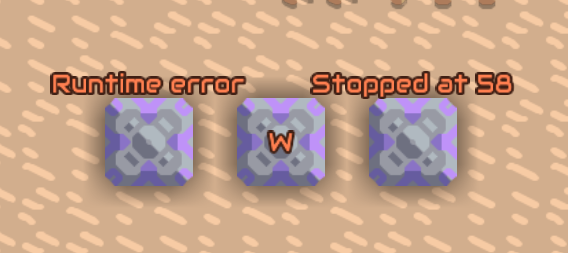
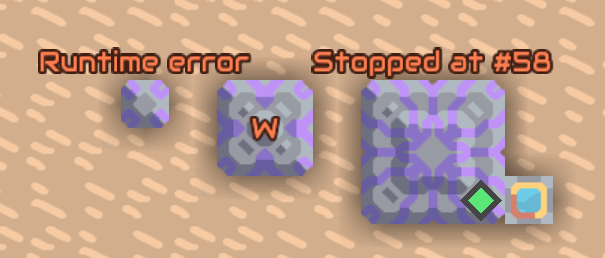
Log instruction

diff --git a/src/cardillan/mlogassertions/logic/LogicStatements.java b/src/cardillan/mlogassertions/logic/LogicStatements.java
@@ -4,14 +4,12 @@ import arc.func.Cons;
 import arc.func.Func;
 import arc.func.Prov;
 import arc.scene.ui.layout.Table;
+import arc.util.Log;
 import mindustry.gen.LogicIO;
-import mindustry.logic.LAssembler;
-import mindustry.logic.LCanvas;
-import mindustry.logic.LCategory;
-import mindustry.logic.LExecutor;
-import mindustry.logic.LStatement;
-import mindustry.logic.LVar;
+import mindustry.logic.*;
 import mindustry.ui.Styles;
+
+import java.util.Arrays;
 
 public class LogicStatements {
     private static final LogicStatementWriter writer = new LogicStatementWriter();
@@ -22,6 +20,7 @@ public class LogicStatements {
         register(AssertFlushStatement::new, AssertFlushStatement.opcode, AssertFlushStatement::read);
         register(AssertPrintsStatement::new, AssertPrintsStatement.opcode, AssertPrintsStatement::read);
         register(ErrorStatement::new, ErrorStatement.opcode, ErrorStatement::read);
+        register(LogStatement::new, LogStatement.opcode, LogStatement::read);
     }
 
     private static void register(Prov<LStatement> prov, String opcode, Func<String[], LStatement> parser) {
@@ -39,6 +38,11 @@ public class LogicStatements {
         @Override
         public String name() {
             return name;
+        }
+
+        @Override
+        public LCategory category() {
+            return AssertLogic.assertsCategory;
         }
 
         protected void stretchRow(Table table){
@@ -65,11 +69,6 @@ public class LogicStatements {
 
         public AssertBoundsStatement() {
             super("Assert Bounds");
-        }
-
-        @Override
-        public LCategory category() {
-            return AssertLogic.assertsCategory;
         }
 
         @Override
@@ -181,11 +180,6 @@ public class LogicStatements {
         }
 
         @Override
-        public LCategory category() {
-            return AssertLogic.assertsCategory;
-        }
-
-        @Override
         public void build(Table table) {
             table.defaults().left();
 
@@ -234,11 +228,6 @@ public class LogicStatements {
         }
 
         @Override
-        public LCategory category() {
-            return AssertLogic.assertsCategory;
-        }
-
-        @Override
         public void build(Table table) {
             table.add(" position ").self(this::param);
             field(table, position, v -> position = v);
@@ -273,11 +262,6 @@ public class LogicStatements {
 
         public AssertPrintsStatement() {
             super("Assert Prints");
-        }
-
-        @Override
-        public LCategory category() {
-            return AssertLogic.assertsCategory;
         }
 
         @Override
@@ -319,26 +303,41 @@ public class LogicStatements {
         }
     }
 
-    private static class ErrorStatement extends AssertStatement {
-        public static final String opcode = "error";
+    private abstract static class MessageStatement extends AssertStatement {
+        private final String opcode;
+        private final boolean hasLevel;
+        public Log.LogLevel level = Log.LogLevel.info;
         public String[] params = new String[10];
 
-        public ErrorStatement() {
-            super("Error");
-            params[0] = "\"Runtime error at #[[1]\"";
+        public MessageStatement(String opcode, String name, String message) {
+            super(name);
+            this.opcode = opcode;
+            this.hasLevel = opcode.equals("log");
+            params[0] = "\"" + message + " at #[[1]\"";
             params[1] = "@counter";
             for (int i = 2; i < params.length; i++) params[i] = "null";
         }
 
         @Override
-        public LCategory category() {
-            return AssertLogic.assertsCategory;
+        public void build(Table table){
+            rebuild(table);
         }
 
-        @Override
-        public void build(Table table) {
+        void rebuild(Table table){
+            table.clearChildren();
+
             table.defaults().left();
             Table t1 = table.table().growX().left().get();
+            if (hasLevel) {
+                t1.button(b -> {
+                    b.label(() -> level.name());
+                    b.clicked(() -> showSelect(b, levels, level, o -> {
+                        level = o;
+                        rebuild(table);
+                    }, 1, cell -> cell.width(80)));
+                }, Styles.logict, () -> {
+                }).size(80f, 40f).left().pad(4f).color(table.color);
+            }
             t1.setColor(category().color);
             t1.add(" message ").self(this::param).left();
             message(t1, params[0], str -> params[0] = str);
@@ -359,27 +358,66 @@ public class LogicStatements {
         }
 
         @Override
+        public void write(StringBuilder builder) {
+            writer.start(builder);
+            writer.write(opcode);
+            if (hasLevel) writer.write(level.name());
+            for (String param : params) writer.write(param);
+            writer.end();
+        }
+
+        protected LStatement readTokens(String[] tokens) {
+            int i = 1;
+            if (hasLevel && tokens.length > i) level = Log.LogLevel.valueOf(tokens[i++]);
+            for (int j = 0; j < 10; j++) {
+                if (tokens.length > i) params[j] = tokens[i++];
+            }
+            return this;
+        }
+    }
+
+    private static class ErrorStatement extends MessageStatement {
+        public static final String opcode = "error";
+
+        public ErrorStatement() {
+            super(opcode, "Error", "Runtime error");
+        }
+
+        @Override
         public LExecutor.LInstruction build(LAssembler builder) {
             LVar[] vars = new LVar[10];
             for (int i = 0; i < params.length; i++) vars[i] = builder.var(params[i]);
             return new LogicInstructions.ErrorI(vars);
         }
 
+        public static LStatement read(String[] tokens) {
+            return new ErrorStatement().readTokens(tokens);
+        }
+    }
+
+    private static final Log.LogLevel[] levels = {
+            Log.LogLevel.err,
+            Log.LogLevel.warn,
+            Log.LogLevel.info,
+            Log.LogLevel.debug,
+    };
+
+    private static class LogStatement extends MessageStatement {
+        public static final String opcode = "log";
+
+        public LogStatement() {
+            super(opcode, "Log", "Logging a message");
+        }
+
         @Override
-        public void write(StringBuilder builder) {
-            writer.start(builder);
-            writer.write(opcode);
-            for (String param : params) writer.write(param);
-            writer.end();
+        public LExecutor.LInstruction build(LAssembler builder) {
+            LVar[] vars = new LVar[10];
+            for (int i = 0; i < params.length; i++) vars[i] = builder.var(params[i]);
+            return new LogicInstructions.LogI(level, vars);
         }
 
         public static LStatement read(String[] tokens) {
-            ErrorStatement stmt = new ErrorStatement();
-            int i = 1;
-            for (int j = 0; j < 10; j++) {
-                if (tokens.length > i) stmt.params[i - 1] = tokens[i++];
-            }
-            return stmt;
+            return new LogStatement().readTokens(tokens);
         }
     }
 }

diff --git a/src/cardillan/mlogassertions/logic/LogicInstructions.java b/src/cardillan/mlogassertions/logic/LogicInstructions.java
@@ -1,11 +1,14 @@
 package cardillan.mlogassertions.logic;
 
+import arc.util.Log;
 import cardillan.mlogassertions.ui.Assertions;
 import mindustry.gen.Building;
 import mindustry.logic.ConditionOp;
 import mindustry.logic.LExecutor;
 import mindustry.logic.LVar;
 import mindustry.world.blocks.logic.LogicBlock;
+
+import java.util.Arrays;
 
 public class LogicInstructions {
 
@@ -153,35 +156,58 @@ public class LogicInstructions {
         public final void run(LExecutor exec) {
             Building building = exec.thisv.building();
 
-            Assertions.setMessage((LogicBlock.LogicBuild) building, () -> {
-                int used = 0;
-                StringBuilder sbr = new StringBuilder(print(vars[0]));
-                int pos = sbr.indexOf("[[");
-                while (pos >= 0) {
-                    if (sbr.charAt(pos + 2) >= '1' && sbr.charAt(pos + 2) <= '9' && sbr.charAt(pos + 3) == ']') {
-                        int index = sbr.charAt(pos + 2) - '0';
-                        String str = print(vars[index]);
-                        sbr.replace(pos, pos + 4, str);
-                        pos = sbr.indexOf("[[", pos + str.length());
-                        used |= (1 << index);
-                    } else {
-                        pos = sbr.indexOf("[[", pos + 1);
-                    }
-                }
-
-                for (int i = 1; i < vars.length; i++) {
-                    if ((used & (1 << i)) == 0 && nonNull(vars[i])) sbr.append(' ').append(print(vars[i]));
-                }
-
-                return sbr.toString();
-            });
+            Assertions.setMessage((LogicBlock.LogicBuild) building, () -> buildMessage("", vars));
             exec.counter.numval--;
             exec.yield = true;
         }
+    }
 
-        private boolean nonNull(LVar var) {
-            return !var.isobj || var.objval != null;
+    public static class LogI implements LExecutor.LInstruction, AssertInstruction {
+        Log.LogLevel level;
+        public LVar[] vars;
+
+        public LogI(Log.LogLevel level, LVar[] vars) {
+            this.level = level;
+            this.vars = vars;
         }
+
+        public LogI() {
+            Log.LogLevel level = Log.LogLevel.info;
+            vars = new LVar[10];
+        }
+
+        @Override
+        public final void run(LExecutor exec) {
+            Building building = exec.thisv.building();
+            Log.log(level, buildMessage("[MlogAssertions] ", vars));
+        }
+    }
+
+    private static String buildMessage(String prefix, LVar[] vars) {
+        int used = 0;
+        StringBuilder sbr = prefix.isEmpty() ? new StringBuilder(print(vars[0])) : new StringBuilder(prefix).append(print(vars[0]));
+        int pos = sbr.indexOf("[[");
+        while (pos >= 0) {
+            if (sbr.charAt(pos + 2) >= '1' && sbr.charAt(pos + 2) <= '9' && sbr.charAt(pos + 3) == ']') {
+                int index = sbr.charAt(pos + 2) - '0';
+                String str = print(vars[index]);
+                sbr.replace(pos, pos + 4, str);
+                pos = sbr.indexOf("[[", pos + str.length());
+                used |= (1 << index);
+            } else {
+                pos = sbr.indexOf("[[", pos + 1);
+            }
+        }
+
+        for (int i = 1; i < vars.length; i++) {
+            if ((used & (1 << i)) == 0 && nonNull(vars[i])) sbr.append(' ').append(print(vars[i]));
+        }
+
+        return sbr.toString();
+    }
+
+    private static boolean nonNull(LVar var) {
+        return !var.isobj || var.objval != null;
     }
 
     private static String print(LVar value) {

diff --git a/README.md b/README.md
@@ -77,6 +77,16 @@ This instruction displays an error message and stops the program execution. The 
 
 If the message contains placeholders in the form `[[1]` to `[[9]`, they are replaced by the corresponding parameters. If there are other parameters not used by the message, whose value is not `null`, they are appended to the message one by one.
 
+## Instruction `log`
+
+This instruction writes a message into the game's log file. It is up to the user to avoid writing too many error messages into the file. The instruction takes these parameters:
+
+* `level`: the log level of the message, one of `debug`, `info`, `warning`, or `err`.
+* `message`: the error message to display.
+* `p1` .. `p9`: additional parameters to display in the error message.
+
+If the message contains placeholders in the form `[[1]` to `[[9]`, they are replaced by the corresponding parameters. If there are other parameters not used by the message, whose value is not `null`, they are appended to the message one by one.
+
 # Settings
 
 ## Instruction limit